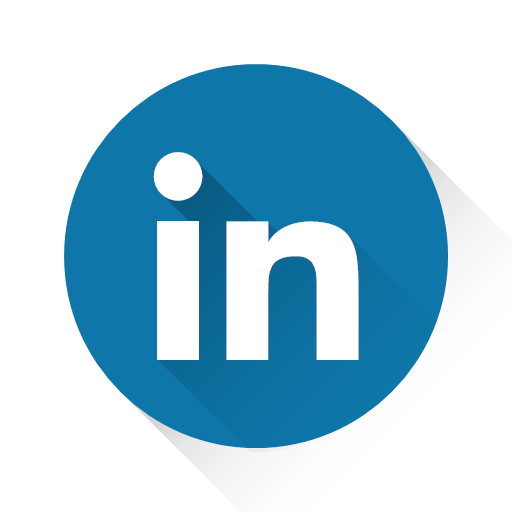
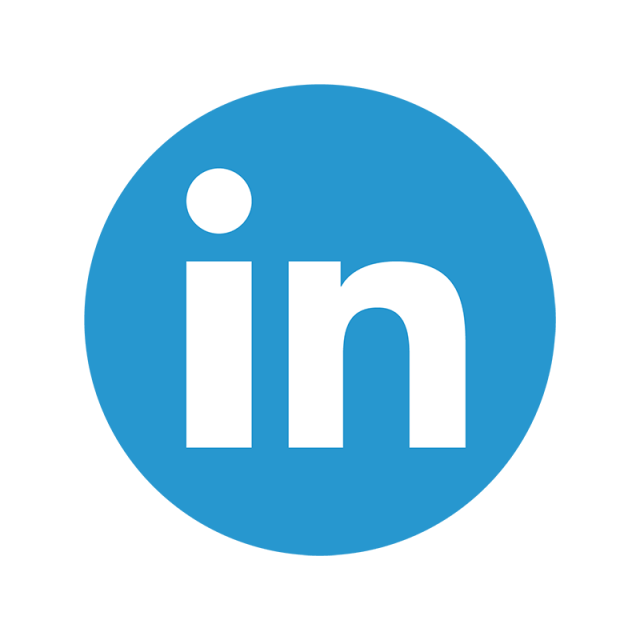
aperfeiçoamento

diff --git a/css/main.css b/css/main.css
@@ -1,92 +1,107 @@
 * {
     padding: 0px;
     margin: 0px;
+    user-select: none;
+    box-sizing: border-box;
+    color: #ffffff;
 }
 
-a {
-    text-decoration: none;
-    color: black;
-}
-
-body {
-    font-family: -apple-system, BlinkMacSystemFont, 'Segoe UI', Roboto, Oxygen, Ubuntu, Cantarell, 'Open Sans', 'Helvetica Neue', sans-serif;
-    font-size: 15px;
-    font-weight: 400;
-    line-height: 1.5;
-    color: #212529;
-    background-repeat: no-repeat;
-    margin-left: auto;
-    margin-right: auto;
-}
-
-h1#nome {
-    left: 35%;
-    position: absolute;
-    top: 6em;
-    color: rgb(8, 8, 8);
-}
-
-nav img.menuLateral {
-    width: 100px;
-    left: 30%;
-    top: 2em;
-    position: absolute;
-}
-
-#menu {
-    background-color: #bdbebd;
+.menu {
+    position: fixed;
     width: 250px;
     height: 100%;
-    position: absolute;
+    left: 0;
+    background-color: black;
 }
 
-ul {
-    list-style: none;
-    top: 13em;
-    position: absolute;
-    width: 100%;
+#nome {
+    color: #ffffff;
+    font-size: 25px;
+    font-weight: 600;
+    line-height: 120px;
+    letter-spacing: 3px;
     text-align: center;
+    background: #bbb3b3;
+    border-radius: 0px 0px 80px 0px;
 }
 
-a {
+nav ul {
+    background: rgb(0, 0, 0);
+    height: 100%;
+    width: 100%;
+    list-style: none;
+}
+
+nav ul li {
+    line-height: 60px;
+    border-bottom: 3px solid #f0e8ea11;
+}
+
+nav ul li:last-child {
+    border-bottom: 3px solid #cf6c85b4;
+}
+
+nav ul li a {
+    position: relative;
+    color: white;
+    text-decoration: none;
+    font-size: 18px;
+    padding-left: 50px;
+    font-weight: 500;
     display: block;
-    padding: 20px 30px;
-    color: rgb(61, 56, 56);
+    width: 100%;
+    border-left: 3px solid transparent;
 }
 
-a:hover {
-    background-color: #D3D3D3;
-    color: #b61515;
-}
-
-nav li ul {
-    display: none;
-}
-
-nav li:hover ul {
-    display: block;
-    position: absolute;
-    font-size: 13px;
-}
-
-nav li:hover li {
-    float: none;
+nav ul li.active a {
+    color: #ff6f9d;
+    background: rgba(255, 255, 255, 0.137);
+    border-left-color: #ff6f9d;
 }
 
 nav ul ul {
-    left: 101%;
+    position: static;
+    display: none;
 }
 
-ul ul {
-    background-color: #bdbebd;
-    width: 200px;
-    height: auto;
+nav ul .feat-show.show {
+    display: block;
+}
+
+nav ul ul li {
+    line-height: 40px;
+    border-bottom: none;
+}
+
+nav ul ul li a {
+    font-size: 16px;
+    color: #bbb3b3;
+    padding-left: 80px;
+}
+
+nav ul li.active ul li a {
+    color: #ffffff;
+    background: rgb(3, 3, 3);
+    border-left-color: transparent;
+}
+
+nav ul ul li a:hover {
+    color: #ff6f9d!important;
+    background: rgba(255, 255, 255, 0.137)!important;
+    border-left-color: #ff6f9d;
+}
+
+nav ul li a span {
     position: absolute;
+    top: 50%;
+    right: 20px;
+    transform: translateY(-50%);
+    font-size: 22px;
+    transition: transform 0.4s;
 }
 
-nav ul li:hover>ul {
-    opacity: 1;
-    visibility: visible;
+nav ul li a:hover span.rotate {
+    transform: translateY(-50%) rotate(-180deg);
 }
 
 img.icones {
@@ -95,8 +110,10 @@ img.icones {
     position: relative;
 }
 
-a#linkedin img.icones {
+img.linkedin {
     width: 40px;
+    top: 10.4px;
+    position: relative;
 }
 
 #perfil {
@@ -110,17 +127,12 @@ img.photo {
     border-radius: 200px;
 }
 
-#top1 {
-    position: absolute;
-    left: 51.8%;
-    top: 8em;
-    color: #bdbebd;
-}
-
 h1.mb-4 {
     position: absolute;
     left: 50%;
     top: 7em;
+    color: #030303;
+    text-align: center;
 }
 
 p.mb-4 {
@@ -128,6 +140,7 @@ p.mb-4 {
     left: 30%;
     top: 19em;
     text-align: center;
+    color: #030303;
 }
 
 footer {

diff --git a/index.html b/index.html
@@ -5,27 +5,41 @@
     <meta charset="UTF-8">
     <link rel="stylesheet" type="text/css" href="css/main.css">
     <title>Natália Lima</title>
+
+    <script src="http://code.jquery.com/jquery-3.4.1.js"></script>
+    <script src="http://kit.fontawesome.com/a076d05399.js"></script>
 </head>
 
 <body>
 
-    <nav id="menu" role="navigation">
-        <img class="menuLateral" src="img/menuLateral.png">
+    <nav class="menu" role="navigation">
         <h1 id="nome">NL.DEV</h1>
         <ul>
             <li class="topicos"><a href="index.html">Home</a></li>
             <li><a href="https://github.com/Natalialimac/" target="_blank"> GitHub</a></li>
-            <li><a href=""> Social Networks</a>
-                <ul>
+            <li class="active">
+                <a href="" class="feat-btn"> Social Networks
+                <span class="fas fa-caret-down first"></span>
+                </a>
+                <ul class="feat-show">
                     <li>
-                        <a href="https://www.instagram.com/nataliadelimac/" target="_blank"><img class="icones" src="img/instagram.png"> Instagram</a>
+                        <a href="https://www.instagram.com/natnunesc/" target="_blank">
+                            <img class="icones" src="img/instagram.png">
+                        </a>
                     </li>
                     <li>
-                        <a id="linkedin" href="https://www.linkedin.com/in/nat%C3%A1lia-de-lima-753076192/" target="_blank"><img class="icones" src="img/linkedin.png">Linkedin</a>
+                        <a id="linkedin" href="https://www.linkedin.com/in/nat%C3%A1lia-de-lima-753076192/" target="_blank">
+                            <img class="linkedin" src="img/linkedin.png">
+                        </a>
                     </li>
+                    <li>
+                        <a href="https://open.spotify.com/playlist/0IhygxkJEa1kwsBfeti1yv" target="_blank">
+                            <img class="icones" src="img/spotify.png">
+                        </a>
+                    </li>
+
                 </ul>
             </li>
-            <li><a href="https://open.spotify.com/playlist/0IhygxkJEa1kwsBfeti1yv" target="_blank"> Spotify Playlist </a></li>
             <li><a href="mailto:nataliadelimac@outlook.com?subject=Contato" targer="_blank"> Send Email</a></li>
         </ul>
     </nav>
@@ -33,10 +47,10 @@
     <div id="perfil">
         <img class="photo" src="img/eu.png" alt="perfil">
     </div>
+
     <div class="description">
-        <h2 id="top1">Olá, eu sou</h2>
         <h1 class="mb-4">Natália Lima</h1>
-        <p class="mb-4"> Atualmente cursando Engenharia de Software na UCSAL - Universidade Católica do Salvador - no campus Pituaçu.<br> Tenho conhecimentos em desenvolvimento mobile utilizando React-native/ Android.<br> Além dos conhecimento em Java, HTML e CSS.
+        <p class="mb-4"> Atualmente cursando Engenharia de Software na UCSAL - Universidade Católica do Salvador - no campus Pituaçu.<br> Tenho conhecimentos em desenvolvimento mobile utilizando React-native/ Android.<br> Além dos conhecimento em Java, HTML, JS e CSS.
         </p>
     </div>
 
@@ -44,6 +58,7 @@
         <p>Natália de Lima Conceição<br></p>
     </footer>
 
+    <script src="js/menu.js"></script>
 </body>
 
 </html>

diff --git a/js/menu.js b/js/menu.js
@@ -1,0 +1,8 @@
+$('.feat-btn').mouseenter(function() {
+    $('nav ul .feat-show').toggleClass("show");
+    $('nav ul .first').toggleClass("rotate");
+});
+
+$('nav ul li').click(function() {
+    $(this).addClass("active").siblings().removeClass("active");
+});
